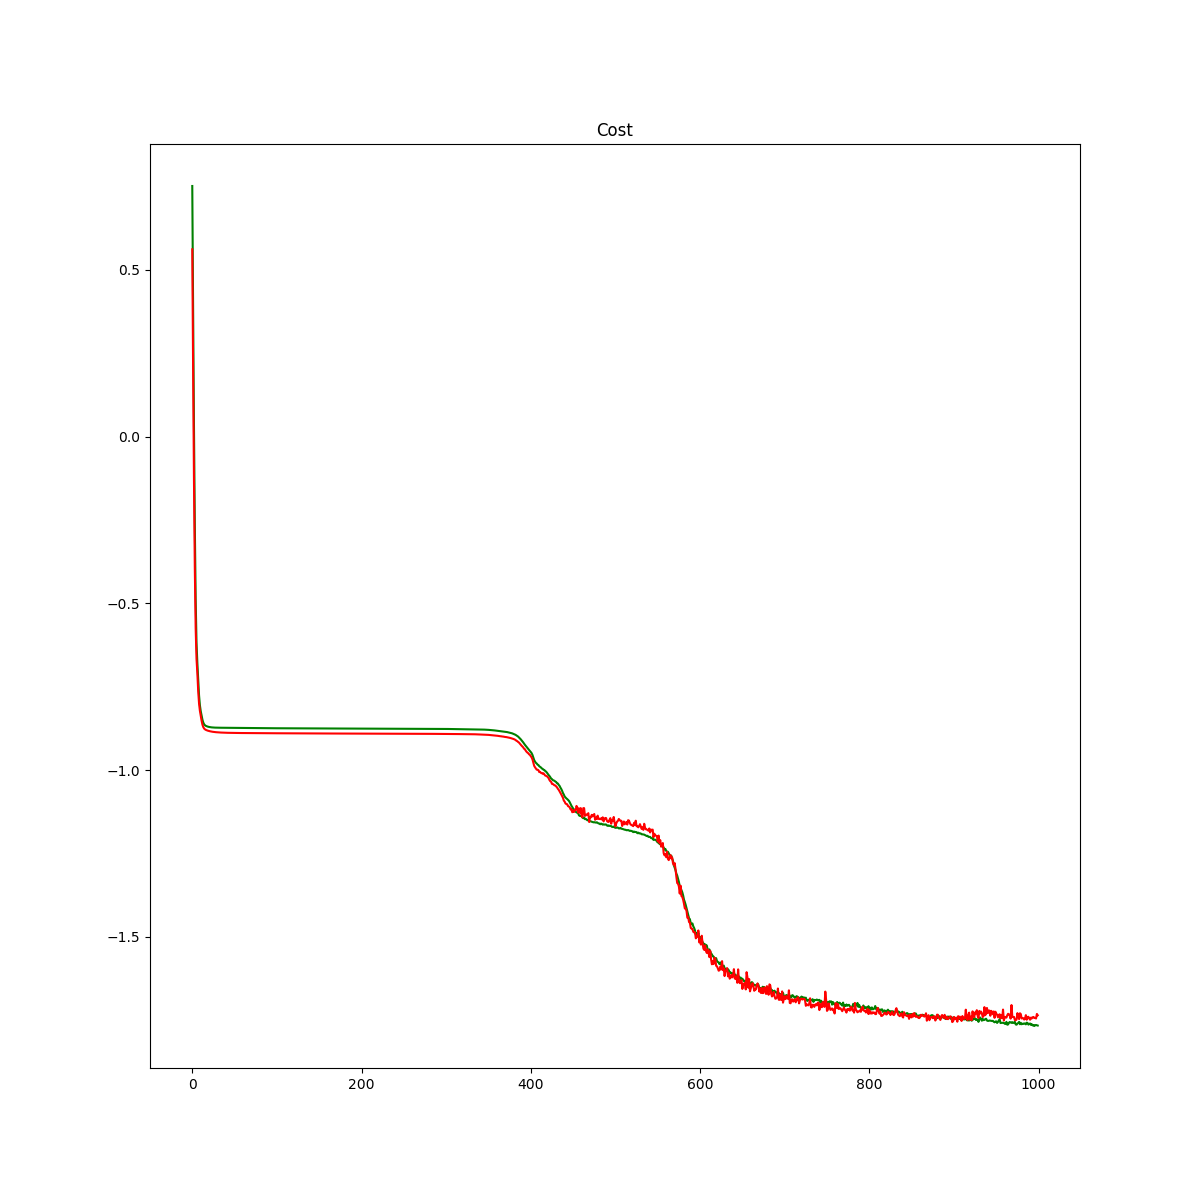
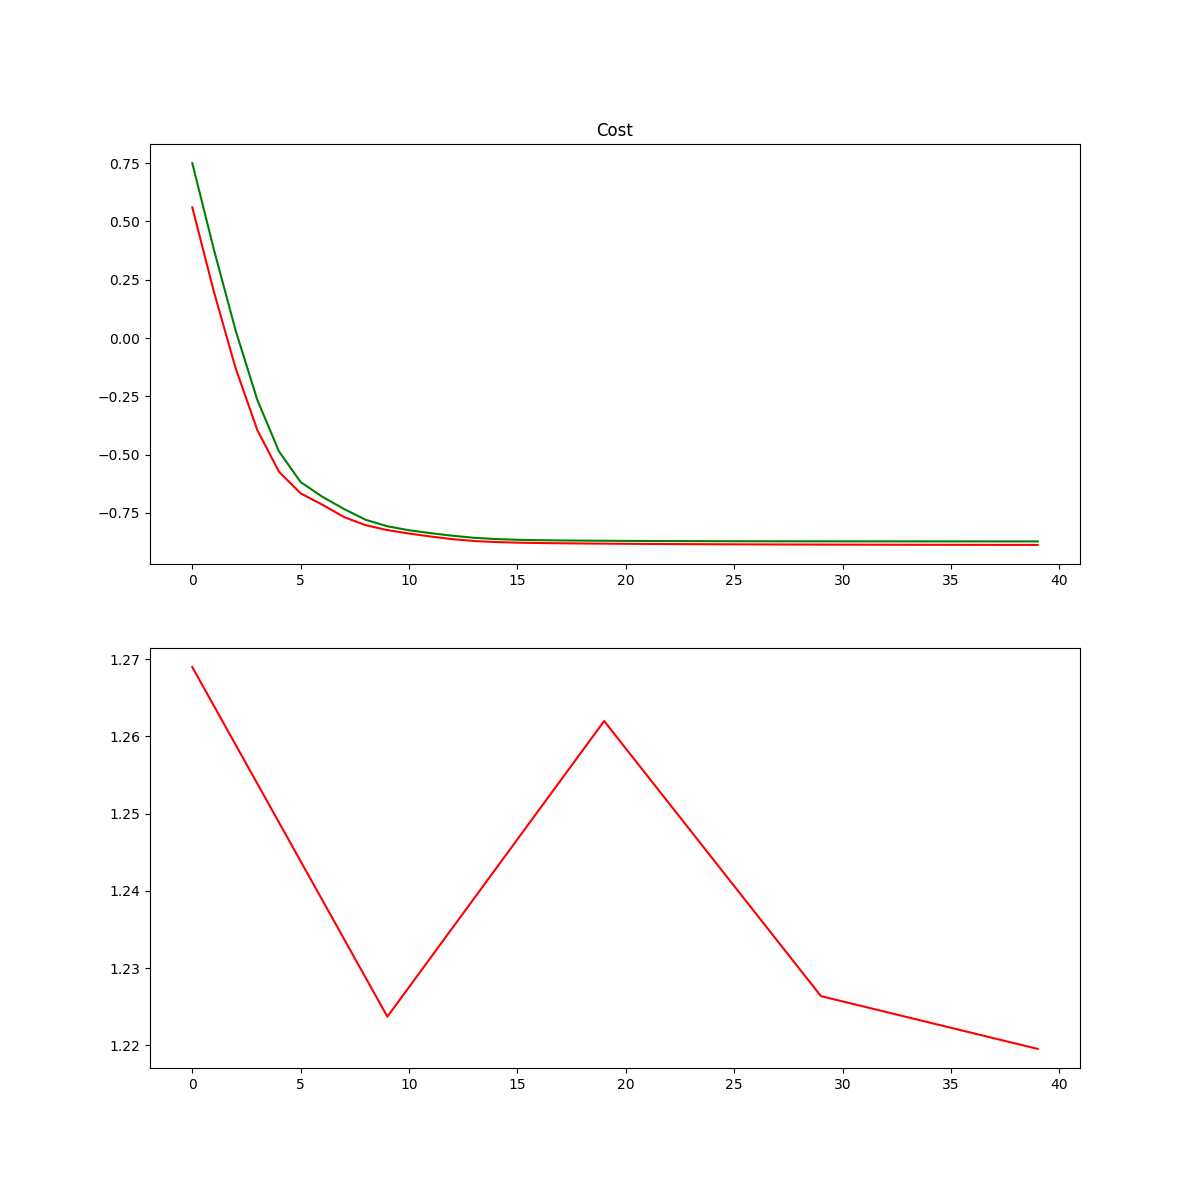
train 10000 epoch

diff --git a/model.py b/model.py
@@ -291,6 +291,12 @@ class Model():
         avg_loss /= batches
         return avg_loss
 
+    def checkpoint_epoch(self, epoch, epoches, cp=10):
+        if (epoch + 1) % cp == 0 or (epoch + 1) == epoches:
+            return True
+        else:
+            return False
+
     def simple_train(
             self, epoches, optimizer,
             train_data, mini_batch_size,
@@ -306,6 +312,7 @@ class Model():
         epoch_list = []
         train_loss_list = []
         valid_loss_list = []
+        error_epoch = []
         error_rate_list = []
         optimizer = optimizer.minimize(self._loss_fn)
         # best loss
@@ -341,28 +348,30 @@ class Model():
                 console.log('info', 'Valid Loss', str(valid_loss) + '\n')
 
                 # sample all valid data
-                if epoch == 0 or (epoch + 1) % 10 == 0:
+                if self.checkpoint_epoch(epoch, epoches) or\
+                   epoch == 0:
                     error_rate = self.sample_data(
                         sess, valid_data, valid_batch_size)
+                    error_epoch.append(epoch)
                     error_rate_list.append(error_rate)
                 # save the model
                 if valid_loss < best_valid_loss:
-                    if (epoch + 1) % 10 == 0 or\
-                       (epoch + 1) == epoches or\
+                    if self.checkpoint_epoch(epoch, epoches) or\
                        epoch > 400:
                         best_valid_loss = valid_loss
                         self.save(sess, epoch)
                 # draw the figure of the training process
-                if (epoch + 1) % 10 == 0 or (epoch + 1) == epoches:
+                if self.checkpoint_epoch(epoch, epoches):
                     fig = plt.figure(figsize=(12, 12))
                     cost_plt = fig.add_subplot(211)
-                    rate_plt = fig.add_subplot(211)
+                    rate_plt = fig.add_subplot(212)
                     cost_plt.title.set_text('Cost')
                     cost_plt.plot(
                         epoch_list, train_loss_list, 'g',
-                        epoch_list, valid_loss_list, 'r')
+                        epoch_list, valid_loss_list, 'r'
+                    )
                     rate_plt.plot(
-                        epoch_list, error_rate_list, 'r'
+                        error_epoch, error_rate_list, 'r'
                     )
                     plt.savefig('error.png')
                     plt.clf()

diff --git a/main.py b/main.py
@@ -32,12 +32,13 @@ if __name__ == '__main__':
     print(mean, stdv)
 
     if model._train:
-        optimizer = tf.train.MomentumOptimizer(1e-3, 0.9)
+        optimizer = tf.train.MomentumOptimizer(5e-3, 0.9)
         model.simple_train(
             train_data=train_data,
             valid_data=valid_data,
-            epoches=1000,
+            epoches=10000,
             mini_batch_size=4,
+            valid_batch_size=32,
             optimizer=optimizer
         )
 
